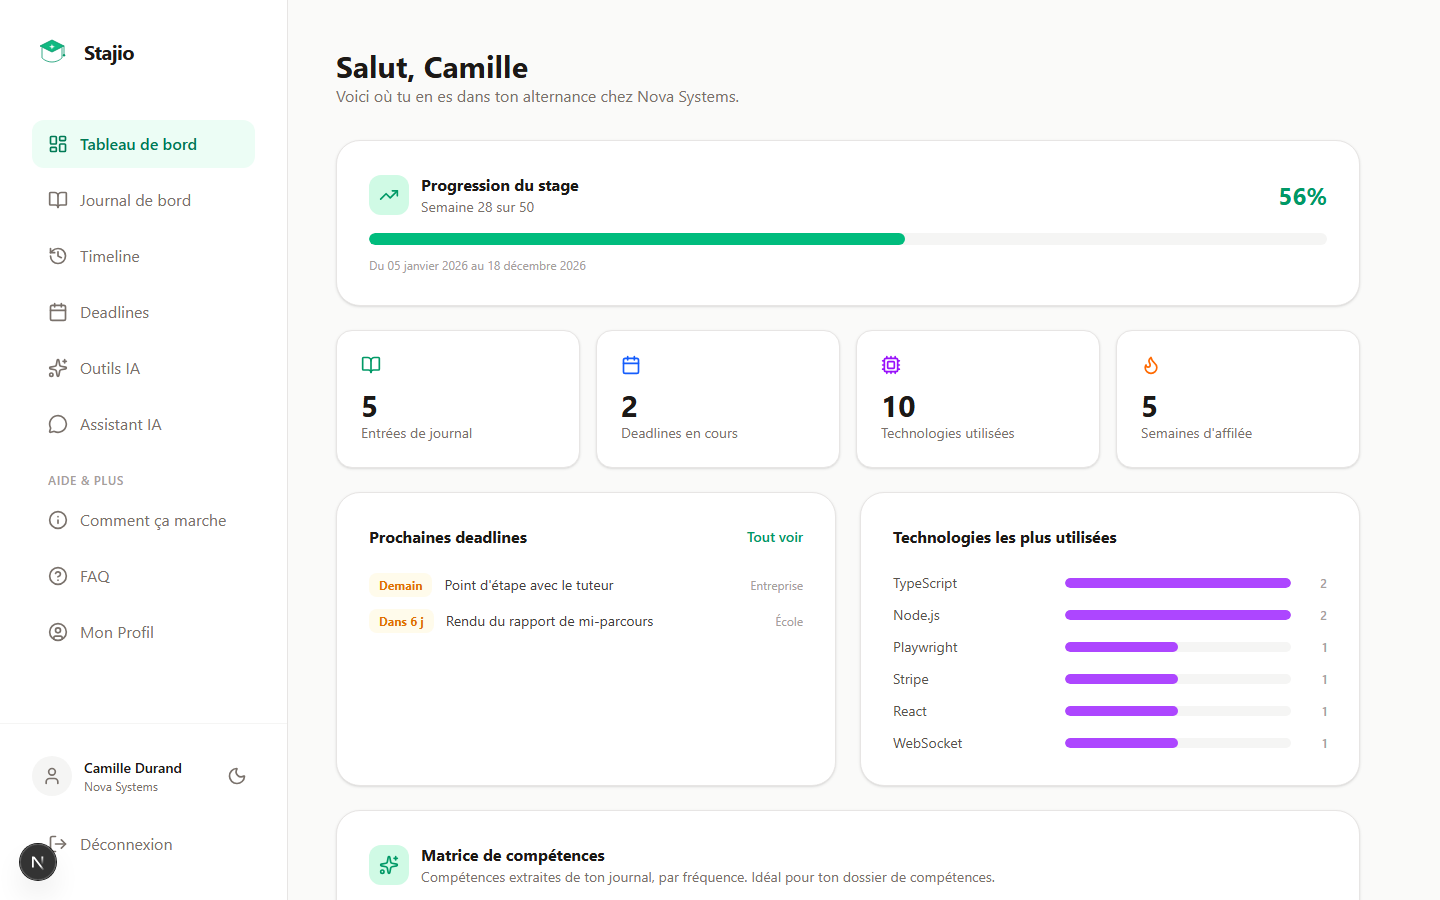
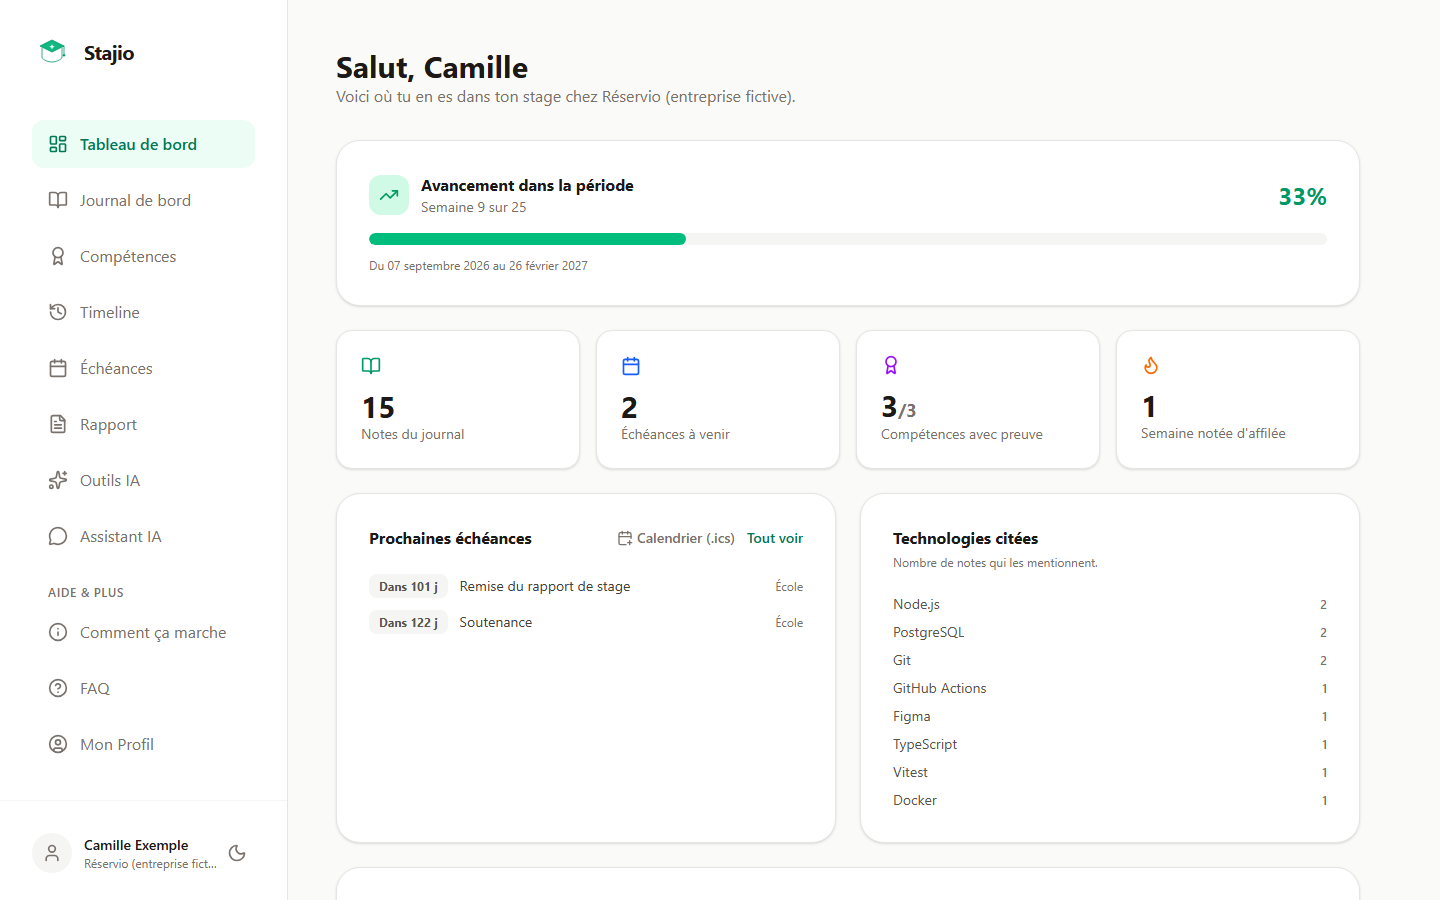
docs: recette Docker, mesures phi4-mini et captures à jour
Installation Docker propre, mise à jour et récupération vérifiées.
OLLAMA_HOST_PORT permet de publier Ollama sur un autre port quand un
Ollama local occupe déjà 11434. Durées de génération mesurées et
relecture des exemples de référence consignées, fichier .ics validé,
captures du README refaites avec le jeu fictif (Compétences et Rapport
ajoutés), roadmap et notes de version alignées sur l'état réel.

diff --git a/README.md b/README.md
@@ -21,7 +21,7 @@ Le projet est local-first : aucune donnée ni aucun appel IA ne transite par un 
 
 ## Démo
 
-L'application n'a pas de démo hébergée publiquement : elle repose sur Ollama tournant en local, ce qui est la contrainte du choix local-first (pas de dépendance à une clé API cloud, pas de coût d'inférence, données jamais envoyées à un tiers). La section [Installation locale](#installation-locale) permet de la lancer en moins de 5 minutes.
+L'application n'a pas de démo hébergée publiquement : elle repose sur Ollama tournant en local, ce qui est la contrainte du choix local-first (pas de dépendance à une clé API cloud, pas de coût d'inférence, données jamais envoyées à un tiers). La section [Installation](#installation) permet de la lancer sur son poste : compter une dizaine de minutes pour le premier build Docker, plus le téléchargement du modèle (2,5 Go pour `phi4-mini`).
 
 | Tableau de bord                                       | Journal de bord                                     |
 | ----------------------------------------------------- | --------------------------------------------------- |
@@ -31,9 +31,15 @@ L'application n'a pas de démo hébergée publiquement : elle repose sur Ollama 
 | --------------------------------------------- | ----------------------------------------------- |
 | ![Timeline](docs/screenshots/04-timeline.png) | ![Échéances](docs/screenshots/05-deadlines.png) |
 
+| Compétences                                    | Rapport                                    |
+| ---------------------------------------------- | ------------------------------------------ |
+| ![Compétences](docs/screenshots/09-skills.png) | ![Rapport](docs/screenshots/10-report.png) |
+
 | Outils IA                                   | Assistant IA                                       |
 | ------------------------------------------- | -------------------------------------------------- |
 | ![Outils IA](docs/screenshots/06-tools.png) | ![Assistant IA](docs/screenshots/07-assistant.png) |
+
+Captures réalisées avec le [jeu de données fictif](docs/fixtures/demo-backup.json) ; la section du rapport a été générée par phi4-mini puis laissée telle quelle.
 
 <details>
 <summary>Voir aussi : écran de connexion et thème sombre</summary>
@@ -105,13 +111,17 @@ Reporter la valeur générée dans `JWT_SECRET` dans `.env`, puis démarrer :
 docker compose up -d --build
 ```
 
-Au premier démarrage, récupérer un modèle dans le conteneur Ollama :
+Sur la machine de référence (portable Intel Core i7-1165G7, 16 Go de RAM, sans carte graphique dédiée), le premier build a pris 10 min 30 s, téléchargement des images de base compris ; l'image de l'application pèse 1,2 Go. Les builds suivants réutilisent le cache.
+
+Au premier démarrage, récupérer un modèle dans le conteneur Ollama (2,5 Go pour `phi4-mini`) :
 
 ```bash
 docker compose exec ollama ollama pull phi4-mini
 ```
 
 Application disponible sur `http://localhost:3001`. Ollama est accessible en interne par l'application via le réseau Docker (`http://ollama:11434`) et exposé sur l'hôte sur le port `11434` si besoin d'y accéder directement.
+
+Si Ollama est déjà installé sur le poste, le port `11434` est occupé et le démarrage échoue (`port is already allocated`). Définir alors `OLLAMA_HOST_PORT=11435` (ou un autre port libre) dans `.env` : seul le port publié sur l'hôte change, l'application continue d'utiliser l'Ollama du conteneur. Les modèles déjà téléchargés sur l'hôte ne sont pas partagés avec le conteneur.
 
 Les ports de Stajio et d'Ollama sont liés à `127.0.0.1` : ils sont accessibles depuis ce poste. Le fichier `.env` permet aussi de configurer `OLLAMA_MODEL`, `OLLAMA_NUM_CTX` (fenêtre de contexte, 8192 jetons par défaut), `OLLAMA_TIMEOUT_MS` (durée maximale d'une génération, 5 minutes par défaut), `STAJIO_COOKIE_SECURE` et `STAJIO_DB_PATH` (chemin dans le conteneur, par défaut `/app/data/stajio.db`).
 
@@ -168,6 +178,7 @@ Application disponible sur `http://localhost:3001`.
 - Prettier avec plugin Tailwind
 - Vitest : tests de validation, de repositories (isolation par utilisateur) et de routes API
 - Playwright : parcours de bout en bout (configuration interrompue puis reprise, journal sans Ollama, structuration simulée, rapport corrigé, versionné et exporté, sauvegarde et restauration, sécurité du compte)
+- Accessibilité : audit axe-core (WCAG 2.2 AA) de tous les écrans en thème clair, en thème sombre et à 360 px de large, plus des parcours clavier (lien « Aller au contenu », focus visible, menu mobile fermé par Échap)
 - CI GitHub Actions : lint, tests, build et E2E sur chaque push et pull request
 
 Les tests Vitest utilisent une base SQLite en mémoire distincte par suite, même si `STAJIO_DB_PATH` est défini dans le shell. Les tests Playwright lancent un serveur dédié sur `127.0.0.1:3101`, avec une copie des sources et une base temporaire ; ils refusent de réutiliser un serveur existant.
@@ -190,6 +201,7 @@ La [gestion du mot de passe et du compte](docs/ACCOUNT_RECOVERY.md) décrit le c
 
 ## Dépannage
 
+- **`port is already allocated` au démarrage Docker** : un Ollama local occupe déjà le port `11434`. Définir `OLLAMA_HOST_PORT` dans `.env` (voir [Avec Docker](#avec-docker-recommandé)).
 - **« Ollama est injoignable »** : lancer `ollama serve` (ou `docker compose up -d ollama`), puis « Vérifier » dans Mon Profil. Le journal, les échéances et le rapport restent utilisables.
 - **« Le modèle … n'est pas installé »** : `ollama pull phi4-mini` (ou `docker compose exec ollama ollama pull phi4-mini`), ou choisir un modèle installé dans Mon Profil.
 - **« La sélection est trop longue pour le modèle »** : réduire la période ou décocher des notes dans le brief ; à défaut, augmenter `OLLAMA_NUM_CTX` si la machine a assez de mémoire.

diff --git a/docs/AI_REFERENCE_EXAMPLES.md b/docs/AI_REFERENCE_EXAMPLES.md
@@ -47,7 +47,33 @@ Avec `OLLAMA_NUM_CTX=2048`, demander un rapport sur toutes les notes : Stajio do
 
 Les durées dépendent du matériel ; noter ici les valeurs observées plutôt que de promettre un délai.
 
-| Date        | Machine | Modèle    | Tâche               | Durée | Remarques |
-| ----------- | ------- | --------- | ------------------- | ----- | --------- |
-| à compléter |         | phi4-mini | Structurer une note |       |           |
-| à compléter |         | phi4-mini | Section de rapport  |       |           |
+Machine de référence : portable Intel Core i7-1165G7 (4 cœurs, 8 threads), 16 Go de RAM, Intel Iris Xe sans carte graphique dédiée. Stajio et Ollama tournent dans Docker Desktop (8 vCPU, 7,7 Gio) : l'inférence se fait sur le processeur. `OLLAMA_NUM_CTX=8192`, jeu de données fictif complet (15 notes). « Premier mot » n'a de sens que pour les tâches en flux.
+
+| Date              | Modèle    | Tâche                                  | Premier mot | Durée totale | Remarques                                 |
+| ----------------- | --------- | -------------------------------------- | ----------- | ------------ | ----------------------------------------- |
+| 31 oct. au 3 nov. | phi4-mini | Structurer une note (modèle à charger) | sans flux   | 16 à 46 s    | Premier appel après le démarrage d'Ollama |
+| 31 oct. au 3 nov. | phi4-mini | Structurer une note (modèle chargé)    | sans flux   | 9 à 17 s     |                                           |
+| 31 oct. au 3 nov. | phi4-mini | Proposer un plan de rapport (15 notes) | sans flux   | 39 à 76 s    |                                           |
+| 31 oct. au 3 nov. | phi4-mini | Section de rapport (15 notes)          | 35 à 38 s   | 140 à 169 s  | Environ 600 mots générés                  |
+| 31 oct. au 3 nov. | phi4-mini | Points CV (4 notes)                    | 13 à 15 s   | 26 à 40 s    |                                           |
+| 31 oct. au 3 nov. | phi4-mini | Évaluer une réponse de soutenance      | sans flux   | 22 à 60 s    | Selon la longueur du retour               |
+| 31 oct. au 3 nov. | phi4-mini | Préparer la soutenance (15 notes)      | sans flux   | 68 à 101 s   |                                           |
+| 3 nov.            | phi4-mini | Sélection trop grande (contexte 2048)  | sans flux   | 0,01 s       | Refus avant tout appel au modèle (cas 5)  |
+
+## Relecture du 31 octobre au 3 novembre 2026 (phi4-mini)
+
+Trois passes : consignes `v1-2026-10`, puis `v2-2026-10` après correction des écarts relevés, puis validation de l'image finale. Les sorties brutes ne sont pas versionnées ; les relancer avec le jeu fictif pour comparer.
+
+**Cas 1 : structurer une note.** Aucun chiffre ni base de données inventés. Écarts : une passe oublie l'écriture des tests d'intégration ; les technologies sont parfois remplies de libellés génériques (« outil d'analyse de plan d'exécution ») au lieu d'une liste vide ; une passe renvoie les technologies en une seule chaîne, désormais découpée en liste (4 structurations sur 4 réussies ensuite). Acceptable : la proposition est relue avant application.
+
+**Cas 2 : section « Missions réalisées ».** Aucun chiffre, utilisateur, taux de couverture ou retour de tutrice inventé ; les notes sont reprises dans l'ordre avec leurs technologies. Écarts : le titre de la section est répété (désormais retiré automatiquement à l'application) et aucun marqueur `[À compléter : …]` n'est posé pour les résultats absents. Une consigne demandant de dater chaque mission a été essayée puis retirée : le modèle rattachait 4 missions sur 13 à une mauvaise date et ajoutait des « résultats » tautologiques. À relire systématiquement.
+
+**Cas 3 : points CV.** 5 à 6 puces fidèles, sans chiffre inventé. Avec `v2-2026-10`, les puces commencent par un participe passé et ne mentionnent plus la tutrice ni les dates du stage.
+
+**Cas 4 : évaluer une réponse.** Note de 6/10 à chaque passe, retour qui cite le manque d'exemples concrets et de résultat. Écart persistant malgré une consigne renforcée : la « meilleure formulation » affirme un gain (« a considérablement accéléré la récupération des données ») et précise l'index (« sur la colonne d'historique ») sans que la réponse le dise. Limite connue du modèle : l'étudiant doit relire la reformulation avant de la réutiliser.
+
+**Cas 5 : sélection trop grande.** Avec `OLLAMA_NUM_CTX=2048`, `/api/ai/estimate` annonce environ 1 770 jetons pour une limite de 1 536 (`fits: false`) et la génération est refusée en 413 avant tout appel au modèle, avec la taille estimée et la suggestion de réduire la période ou le nombre de notes.
+
+**Plan de rapport.** phi4-mini renvoie les sections dans un tableau imbriqué (`{"sections":[[…]]}`) : la proposition échouait à chaque essai. Après normalisation, 3 plans sur 3 sont acceptés (5 à 8 sections). Leur qualité varie : un plan sur trois propose des sections hors sujet (« Formation », « Tuteur ») à corriger dans l'éditeur.
+
+**Préparation de soutenance.** La première passe formule les questions à la troisième personne avec des dates ISO et termine par une « question » réduite à `:` ; une autre renvoie les questions en simples chaînes ; une autre encore interpelle l'étudiante en « Madame Camille ». Ces formes sont désormais acceptées ou écartées, et la consigne demande de vouvoyer sans nommer ni employer de civilité : 2 préparations sur 2 conformes ensuite (6 et 9 questions).

diff --git a/docs/ROADMAP_V1.md b/docs/ROADMAP_V1.md
@@ -149,14 +149,14 @@ Dépendance : tous les lots précédents. Les tests ciblés restent à réaliser
 
 **Sortie du lot :** les critères de la section 4 passent, aucun blocage du parcours central n'est ouvert, et les limites connues sont documentées.
 
-**État au 28 octobre 2026 : en cours.**
+**État au 3 novembre 2026 : en cours, bloqué par la recette étudiants (V1-705) et le choix de version.**
 
 - V1-701 : fait. Parcours automatisés dans `tests/e2e/v1-journey.spec.ts` (configuration reprise, journal sans Ollama, structuration simulée, rapport corrigé, versionné et exporté) en plus des tests de sauvegarde et de sécurité existants.
-- V1-702 : partiel. Libellés reliés aux champs, boutons à icône nommés, actions visibles au clavier et sur mobile, états de chargement, de liste vide et d'erreur sur les écrans principaux. Un audit complet (lecteur d'écran, contraste, navigation clavier écran par écran) reste à faire.
+- V1-702 : fait pour les contrôles automatisables. `tests/e2e/accessibility.spec.ts` passe axe-core (WCAG 2.2 AA) sur tous les écrans en thème clair, en thème sombre et à 360 px, sans débordement horizontal, et vérifie le lien « Aller au contenu », le focus visible et le menu mobile (focus déplacé, fermeture par Échap, hors du parcours clavier une fois fermé). Corrigés : contrastes du texte secondaire, des boutons verts, des badges et des échéances terminées, champs du profil sans libellé associé, texte noir en thème sombre. Reste manuel : un passage au lecteur d'écran (NVDA ou VoiceOver).
 - V1-703 : fait. `/api/health` distingue application, base et Ollama (healthcheck Docker et sonde Kubernetes) ; les journaux serveur sont structurés et ne contiennent que des codes et durées.
-- V1-704 : partiel. Prérequis, variables, mise à jour et dépannage documentés dans le README ; installation Docker propre et mesures de durée sur la machine de référence à réaliser.
-- V1-705 : à faire, hors code : recette par 3 à 5 étudiants avec [SPEC_V1.md](SPEC_V1.md).
-- V1-706 : partiel. Les commandes de la CI (`lint`, `lint:code`, `test`, `build`, `test:e2e`) passent localement ; [notes de version](RELEASE_NOTES.md) rédigées ; captures d'écran du README et choix du numéro de version restent à faire.
+- V1-704 : fait. Installation Docker propre vérifiée le 30 octobre 2026 (build 10 min 30 s, deux conteneurs sains, `/api/health` au vert), puis mise à jour par reconstruction (40 s avec le cache) sans perte de données. La récupération de [DATA_RECOVERY.md](DATA_RECOVERY.md) a été exécutée avec Docker sur un instantané : copie vérifiée, écrasement refusé, application démarrée sur la copie avec les données intactes. Un Ollama déjà installé occupait le port `11434` : `OLLAMA_HOST_PORT` est ajouté et documenté. Durées mesurées et relecture des générations dans [AI_REFERENCE_EXAMPLES.md](AI_REFERENCE_EXAMPLES.md) ; les écarts de format de phi4-mini (plan imbriqué, questions en chaînes, titre répété) sont normalisés. Le fichier `.ics` est relu sans erreur par la bibliothèque `icalendar` (lignes de 75 octets maximum, CRLF, accents et séparateurs échappés) ; son import dans un agenda réel reste à faire par un humain.
+- V1-705 : à faire, hors code : recette par 3 à 5 étudiants avec [SPEC_V1.md](SPEC_V1.md). Elle ne peut pas être réalisée par l'équipe de développement.
+- V1-706 : partiel. Les commandes de la CI passent localement ; [notes de version](RELEASE_NOTES.md) et captures du README mises à jour. Reste à choisir le numéro de version : aucun tag ni release GitHub n'existe, `1.0.0` est donc libre.
 
 ## 4. Définition de « V1 terminée »
 
@@ -188,4 +188,4 @@ Les vérifications automatisées doivent utiliser une base dédiée. La généra
 
 ## 6. Prochaines étapes
 
-Les lots 0 à 6 sont livrés. Avant la diffusion de la V1, terminer le **lot 7** : relire les générations réelles sur les exemples de référence, vérifier une installation Docker propre et l'import `.ics`, compléter l'audit d'accessibilité, faire passer la recette à des étudiants, puis mettre à jour les captures et choisir le numéro de version.
+Les lots 0 à 6 sont livrés et le lot 7 est vérifié pour tout ce qui ne dépend pas d'utilisateurs réels. Avant la diffusion de la V1 : faire passer la recette à 3 à 5 étudiants (V1-705) et corriger les blocages du parcours central, importer le `.ics` dans un agenda réel, faire un passage au lecteur d'écran, puis choisir le numéro de version et publier le tag.

diff --git a/docs/RELEASE_NOTES.md b/docs/RELEASE_NOTES.md
@@ -14,6 +14,8 @@ Le numéro de diffusion reste à choisir (voir V1-706) : `1.0.0` dans `package.j
 - **Assistant** : conversations et simulations de soutenance enregistrées et reprenables ; réponses interrompues conservées et relançables ; critères d'évaluation visibles.
 - **Points CV** : sélection des expériences, correction et sauvegarde des formulations, export texte ou Markdown.
 - **Diagnostic IA** dans le profil et route publique `/api/health`.
+- **Accessibilité** : lien « Aller au contenu », focus clavier visible partout, menu mobile qui reçoit le focus et se ferme avec Échap, contrastes relevés au niveau WCAG AA dans les deux thèmes, champs du profil reliés à leur libellé. Un audit axe-core automatisé couvre tous les écrans (clair, sombre, 360 px).
+- **Docker** : `OLLAMA_HOST_PORT` permet de publier Ollama sur un autre port quand un Ollama local occupe déjà `11434`.
 
 ### Changements de comportement
 
@@ -29,6 +31,10 @@ Le numéro de diffusion reste à choisir (voir V1-706) : `1.0.0` dans `package.j
 - Le dernier fragment d'une réponse en flux n'était pas transmis s'il n'était pas suivi d'un saut de ligne.
 - Les échéances initiales imposaient la fin du stage comme date de soutenance et dataient la mi-parcours du jour de l'inscription.
 - `next build` n'ouvre plus la base SQLite de l'utilisateur (ouverture à la première requête).
+- La proposition de plan de rapport échouait avec phi4-mini, qui renvoie les sections dans un tableau imbriqué ; la préparation de soutenance échouait quand il renvoyait les questions en simples chaînes ou ajoutait une question vide. Ces formes sont désormais normalisées.
+- Une section générée qui recommence par son propre titre ne le duplique plus dans le rapport.
+- Consignes IA `v2-2026-10` : points CV au participe passé et limités aux réalisations, questions de jury vouvoyées sans civilité ni date ISO, reformulation de soutenance invitée à ne pas ajouter de résultat.
+- Les échéances terminées étaient affichées en transparence, rendant leur texte et leurs étiquettes illisibles (contraste 2,3:1).
 
 ### Mise à jour
 
@@ -42,4 +48,6 @@ Le numéro de diffusion reste à choisir (voir V1-706) : `1.0.0` dans `package.j
 - Pas de notification lorsque l'application est fermée ; exporter les échéances vers un calendrier.
 - La note des simulations est indicative et dépend du modèle local.
 - Un seul stage par compte.
-- La qualité des générations n'a pas encore été relue sur un modèle réel avec les [exemples de référence](AI_REFERENCE_EXAMPLES.md), et les durées de génération ne sont pas encore mesurées.
+- Avec phi4-mini sur processeur, une section de rapport prend 2 à 3 minutes et une structuration de note 10 à 45 secondes sur la machine de référence ([mesures](AI_REFERENCE_EXAMPLES.md#mesures-sur-la-machine-de-référence)).
+- phi4-mini pose rarement les marqueurs `[À compléter : …]` et peut ajouter un gain non mentionné dans la reformulation d'une réponse de soutenance : relire chaque proposition ([relecture](AI_REFERENCE_EXAMPLES.md#relecture-du-31-octobre-au-3-novembre-2026-phi4-mini)).
+- Pas encore de recette par des étudiants ni de passage au lecteur d'écran ; l'import du `.ics` est vérifié par un analyseur, pas dans un agenda réel.

diff --git a/docs/DATA_RECOVERY.md b/docs/DATA_RECOVERY.md
@@ -27,4 +27,6 @@ docker compose stop app
 docker compose run --rm --no-deps app node scripts/db-recover.mjs --backup /app/data/backups/FICHIER.sqlite --output /app/data/recovery/stajio-recovered.db
 ```
 
+Sous Windows avec Git Bash, préfixer ces commandes par `MSYS_NO_PATHCONV=1` : sans cela, les chemins `/app/...` sont convertis en chemins Windows avant d'atteindre le conteneur.
+
 Configurer ensuite `STAJIO_DB_PATH` pour utiliser `/app/data/recovery/stajio-recovered.db` avant de redémarrer. Les sauvegardes de migration sont des instantanés de toute la base ; l'export JSON depuis le profil sert à transférer les seules données métier du compte connecté.
